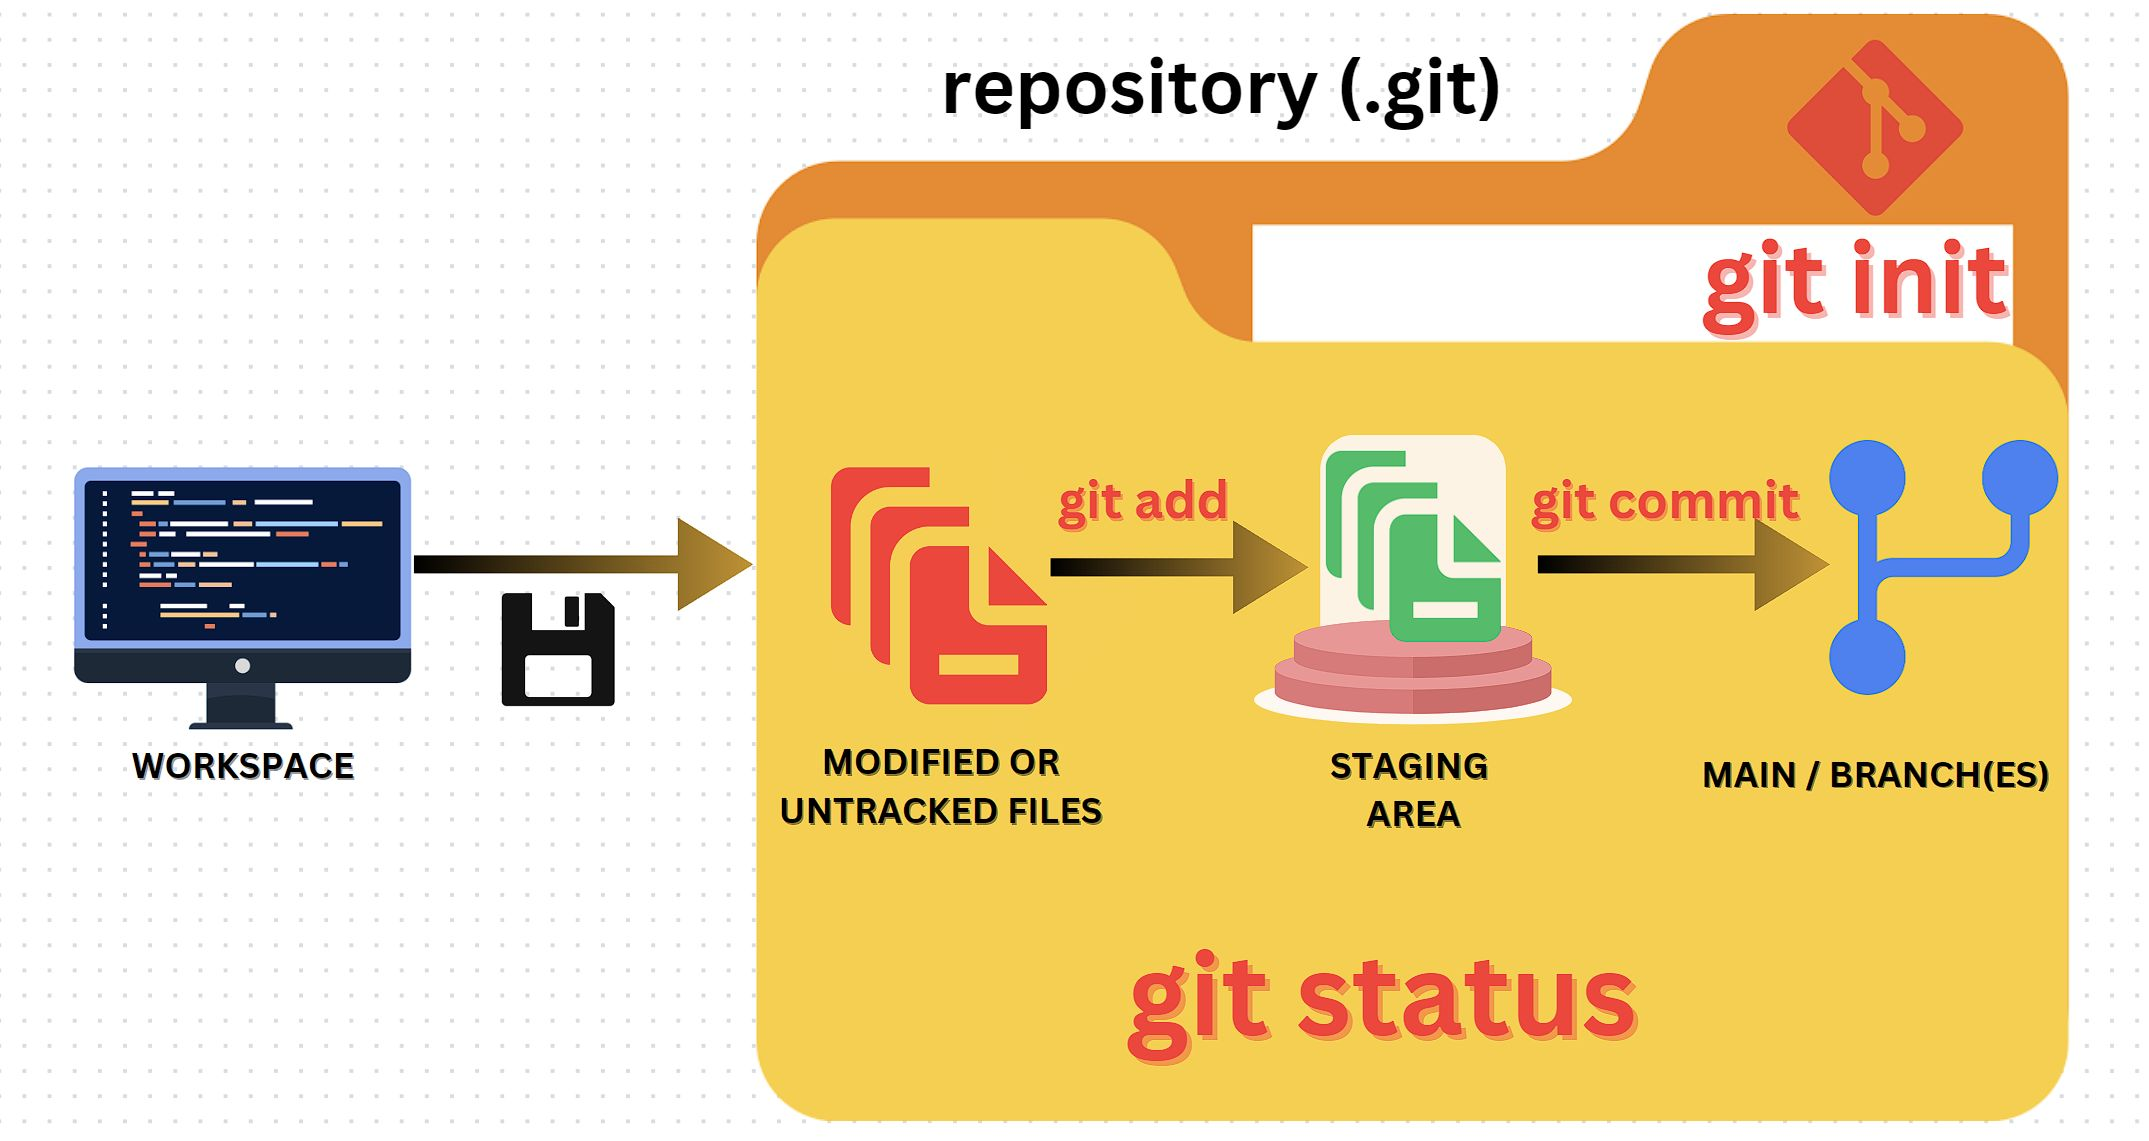
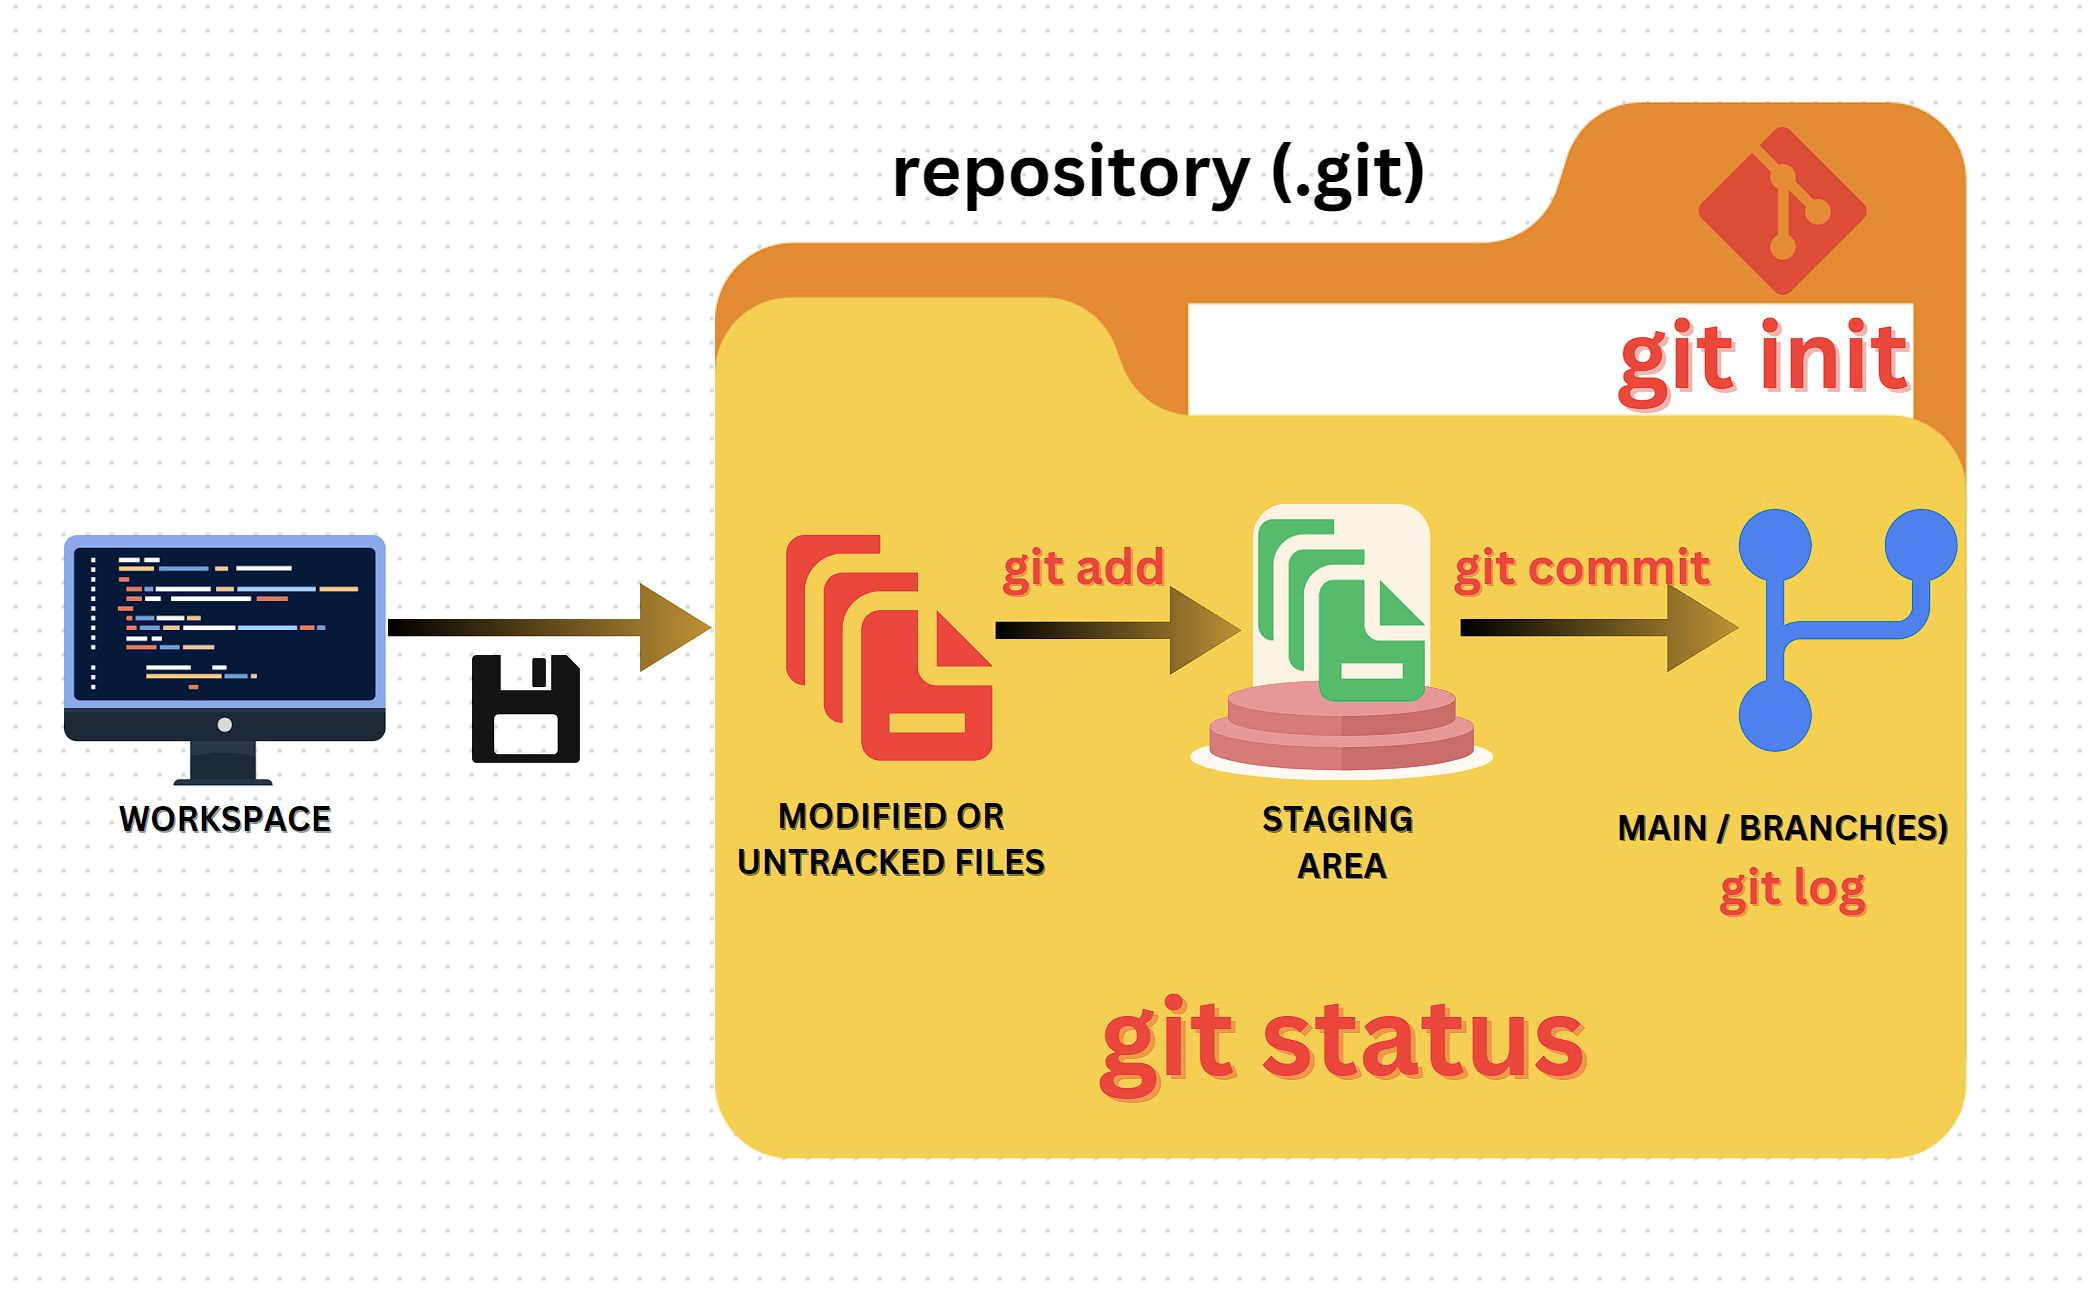
add notes on git log and revise git workflow diagram

Changed region(s): [[0.031, 0.0, 0.9905, 1.0]]

diff --git a/assets/s4/ch17.md b/assets/s4/ch17.md
@@ -1,0 +1,58 @@
+## Checking the Commit Log
+
+### git log
+- Displays a list of the entire history of commits in a given repository.
+```shell
+$ git log
+```
+
+- Sample output:
+
+<div align="center">
+    <img 
+        src="../img/screenshot03.jpg" 
+        alt="screenshot03" 
+        width="500">
+</div>
+
+- Each commit log consists of the following information:
+  - the commit hash
+  - the branch pointer (*HEAD -> main*; more on this later)
+  - the user name and email
+  - the date and time of the commit
+  - the commit message
+
+- The commit log history is displayed from newest (most recent) to oldest commits.
+- If the commit log is too long and doesn't fit in the terminal window, it will pause the output at the bottom of the window, with a colon `:` indicator to designate that there are still more lines to display. Press and hold the *down arrow* key to let the display scroll down and reveal the rest of the commit history. Once you reach the end of the commit history, the indicator will change to `(END)`. Press `Q` to exit the log and go back to the normal terminal prompt.
+
+- To view a more concise version of the commit history (with less details), use the `--oneline` switch:
+```shell
+$ git log --oneline
+```
+
+- Sample output of `git log --oneline`:
+
+<div align="center">
+    <img 
+        src="../img/screenshot04.jpg" 
+        alt="screenshot03" 
+        width="500">
+</div>
+
+<hr>
+
+<table align="center">
+   <tbody>
+      <tr>
+        <td>
+            << Start: <a href="/README.md">README.md</a>
+        </td>
+        <td>
+            < Previous: <a href="/assets/s4/ch16.md">Committing</a>
+        </td>
+        <td>
+            Next: <a href="#">TBA</a> >
+        </td>
+      </tr>
+   </tbody>
+</table>

diff --git a/assets/s4/ch16.md b/assets/s4/ch16.md
@@ -37,7 +37,7 @@ $ git commit -m "add new row to the user information table"
             < Previous: <a href="/assets/s4/ch15.md">Staging</a>
         </td>
         <td>
-            Next: <a href="#">TBA</a> >
+            Next: <a href="/assets/s4/ch17.md">Checking the Commit Log</a> >
         </td>
       </tr>
    </tbody>

diff --git a/README.md b/README.md
@@ -29,6 +29,7 @@ A collection of (unofficial) notes on `Git` and `GitHub`, gathered from various 
 - [The Git Workflow](assets/s4/ch14.md)
 - [Staging](assets/s4/ch15.md)
 - [Committing](assets/s4/ch16.md)
+- [Checking the Commit Log](assets/s4/ch17.md)
 
 ## Resources
 - [Git Official Website](https://git-scm.com/)
